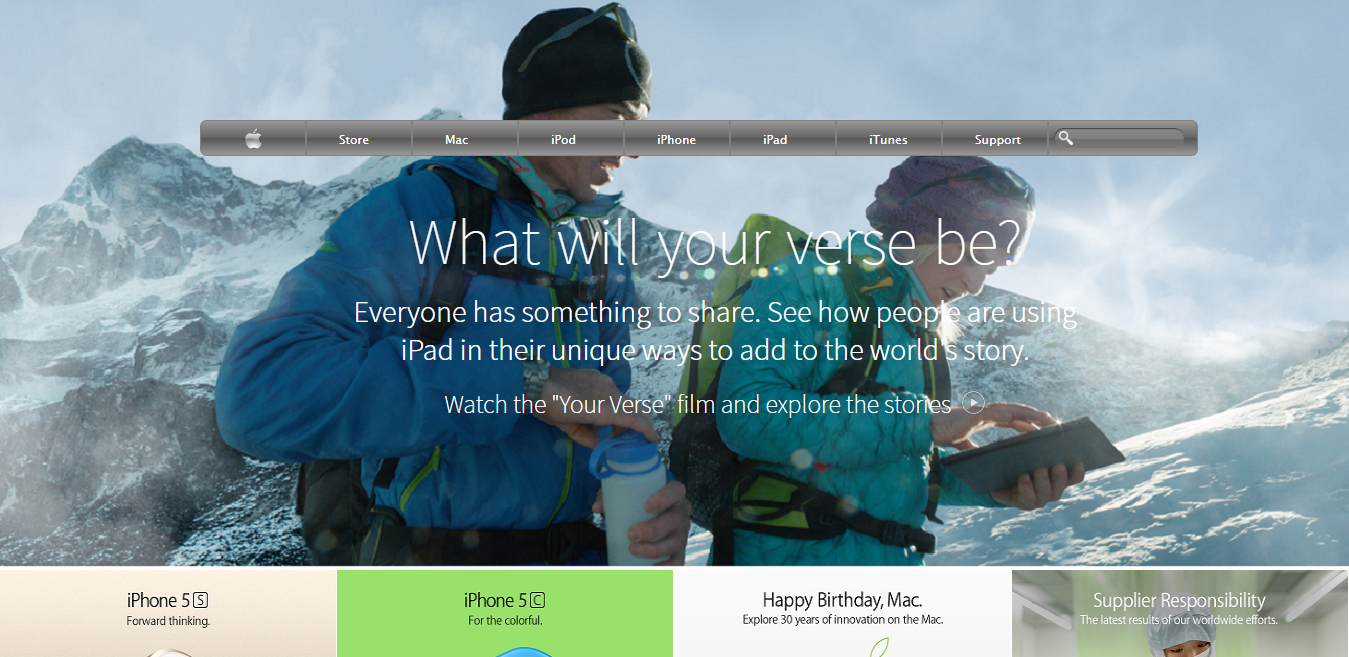
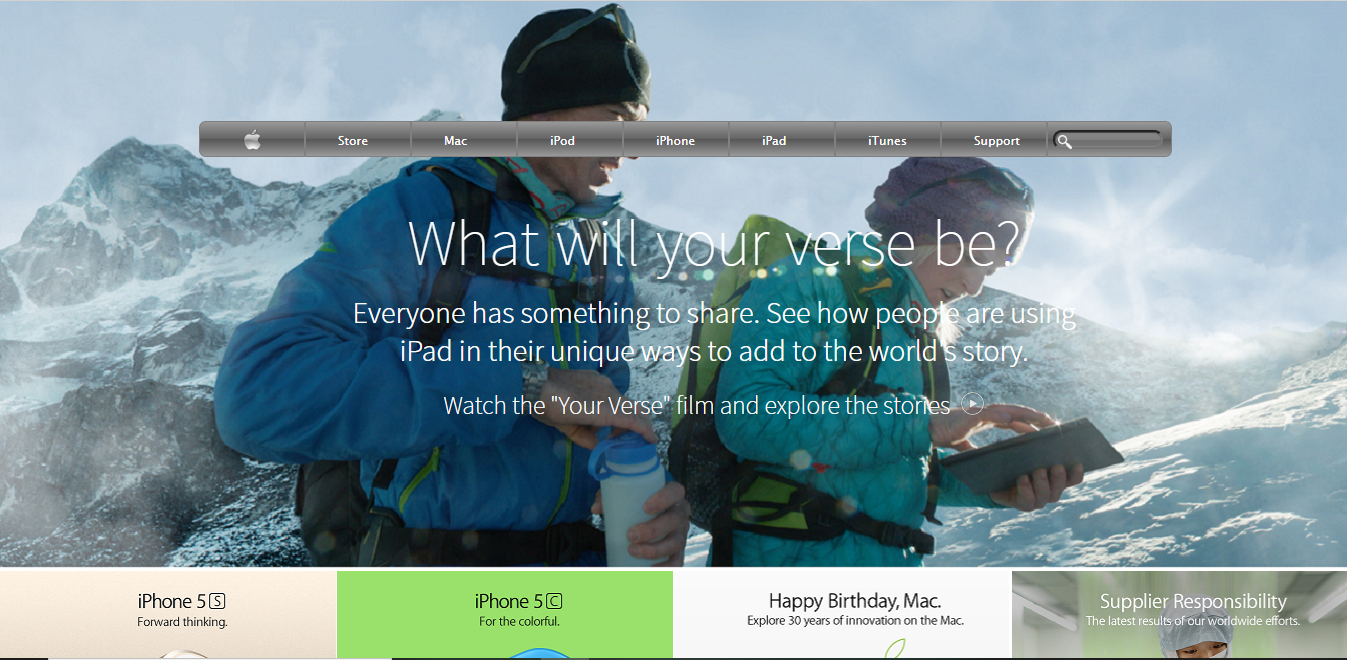
Fix mandatory changes

diff --git a/css/style.css b/css/style.css
@@ -185,13 +185,22 @@ footer p {
 .last {
   border-top-right-radius: 7px;
   border-bottom-right-radius: 7px;
-  min-width: 150px;
+  min-width: 125px;
   min-height: 36px;
+}
+
+form{
+  display: flex;
+  align-items: center;
+}
+
+input {
+  max-width: 110px;
 }
 
 .last:hover {
   background: linear-gradient(to top, rgba(153, 153, 153, 1) 0%, rgba(85, 85, 85, 1) 50%, rgba(99, 99, 99, 1) 50%, rgba(153, 153, 153, 1) 100%);
-  cursor: text;
+  /* cursor: text; */
 }
 
 .search-box {
@@ -199,7 +208,7 @@ footer p {
   position: relative;
   border-radius: 12px;
   box-shadow: inset 0.5px 0.8px 1px 0.2px #444, inset 0.5px -0.8px 0.2px 0.2px #888;
-  min-width: 130px;
+  min-width: 110px;
   max-height: 30px;
   margin-left: 5px;
 }
@@ -212,18 +221,51 @@ footer p {
 .search {
   max-width: 14px;
   max-height: 14px;
-  position: relative;
-  margin: 3px 0 0 5px;
+  position: absolute;
+  margin: 3px 0 0 10px;
 }
 
 section {
-  background-image: url(../images-apple/iPhone5s.png), url(../images-apple/iPhone5.png), url(../images-apple/HappyBirthday.png), url(../images-apple/Supplier.png);
-  background-position: left, 337px, 675px, 1012px;
-  background-repeat: no-repeat;
-  min-width: 100vw;
-  margin-top: 570px;
-  background-size: 335.75px 200px;
+  margin-top: 570px; 
+  min-width: 1349px;
   min-height: 200px;
+}
+
+.s-container {
+  display: flex;
+  min-width: 1349px;
+}
+
+.image1 {
+  background-image: url(../images-apple/iPhone5s.png);
+  background-repeat: no-repeat;
+  margin-left: 1px;
+  min-height: 200px;
+  min-width: 335.75px;
+}
+
+.image2 {
+  background-image: url(../images-apple/iPhone5.png);
+  background-repeat: no-repeat;
+  margin-left: 1px;
+  min-height: 200px;
+  min-width: 335.75px;
+}
+
+.image3 {
+  background-image: url(../images-apple/HappyBirthday.png);
+  background-repeat: no-repeat;
+  margin-left: 1px;
+  min-height: 200px;
+  min-width: 335.75px;
+}
+
+.image4 {
+  background-image: url(../images-apple/Supplier.png);
+  background-repeat: no-repeat;
+  margin-left: 3px;
+  min-height: 200px;
+  min-width: 335.75px;
 }
 
 .text {
@@ -299,7 +341,7 @@ footer {
 }
 
 .left {
-  margin-left: 190px;
+  margin-left: 150px;
 }
 
 .left a {

diff --git a/index.html b/index.html
@@ -34,7 +34,10 @@
                     <p>Support</p>
                 </div>
                 <div class="last">
-                    <span class="search-box"> <img class="search" src="images-apple/search1.PNG" alt="search"/> </span>
+                    <form>
+                        <input type="text" class="search-box">
+                        <img class="search" src="images-apple/search1.PNG" alt="search"/>
+                    </form>    
                 </div>
             </nav>
             <div class="text">
@@ -51,7 +54,15 @@
                 </div>
             </div>
         </main>
-        <section></section>
+        <section>
+            <div class="s-container">
+                <div class="image1"><a href="#"></a></div>
+                <div class="image2"><a href="#"></a></div>
+                <div class="image3"><a href="#"></a></div>
+                <div class="image4"><a href="#"></a></div>  
+            </div>
+            
+        </section>
         <footer>
             <div class="left">
                 <p>

diff --git a/README.md b/README.md
@@ -14,7 +14,7 @@ Align all elements with float and flex or grid.
 - CSS
 
 
-[Live Demo Link](https://rawcdn.githack.com/Rocio01/BackgroundsandGradients/05b846f75f0e801d88aac207870c251b5d46693b/index.html)
+[Live Demo Link](https://rawcdn.githack.com/Rocio01/BackgroundsandGradients/45a4007f702851039cdcc0e82e0ee526cd41d255/index.html)
 
 
 [Github Repository Link](https://github.com/Rocio01/BackgroundsandGradients/tree/feature-branch)
